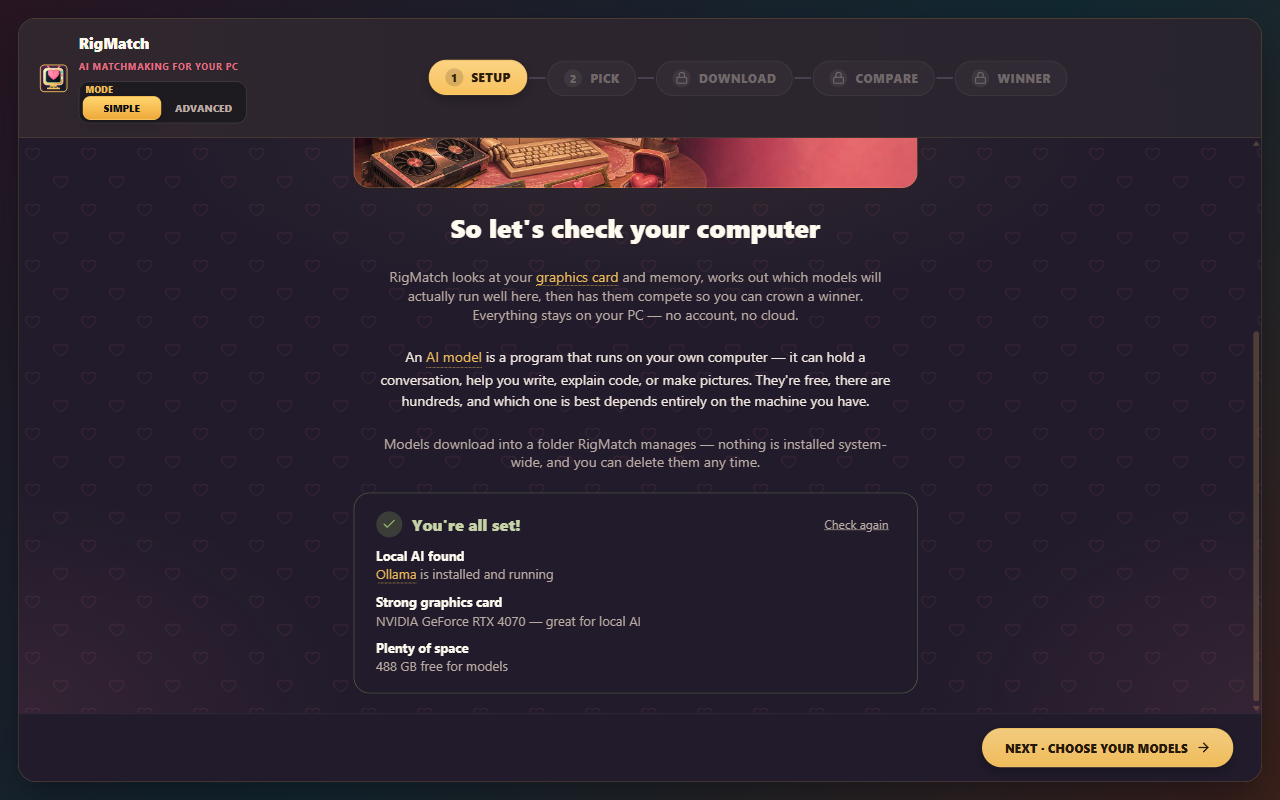
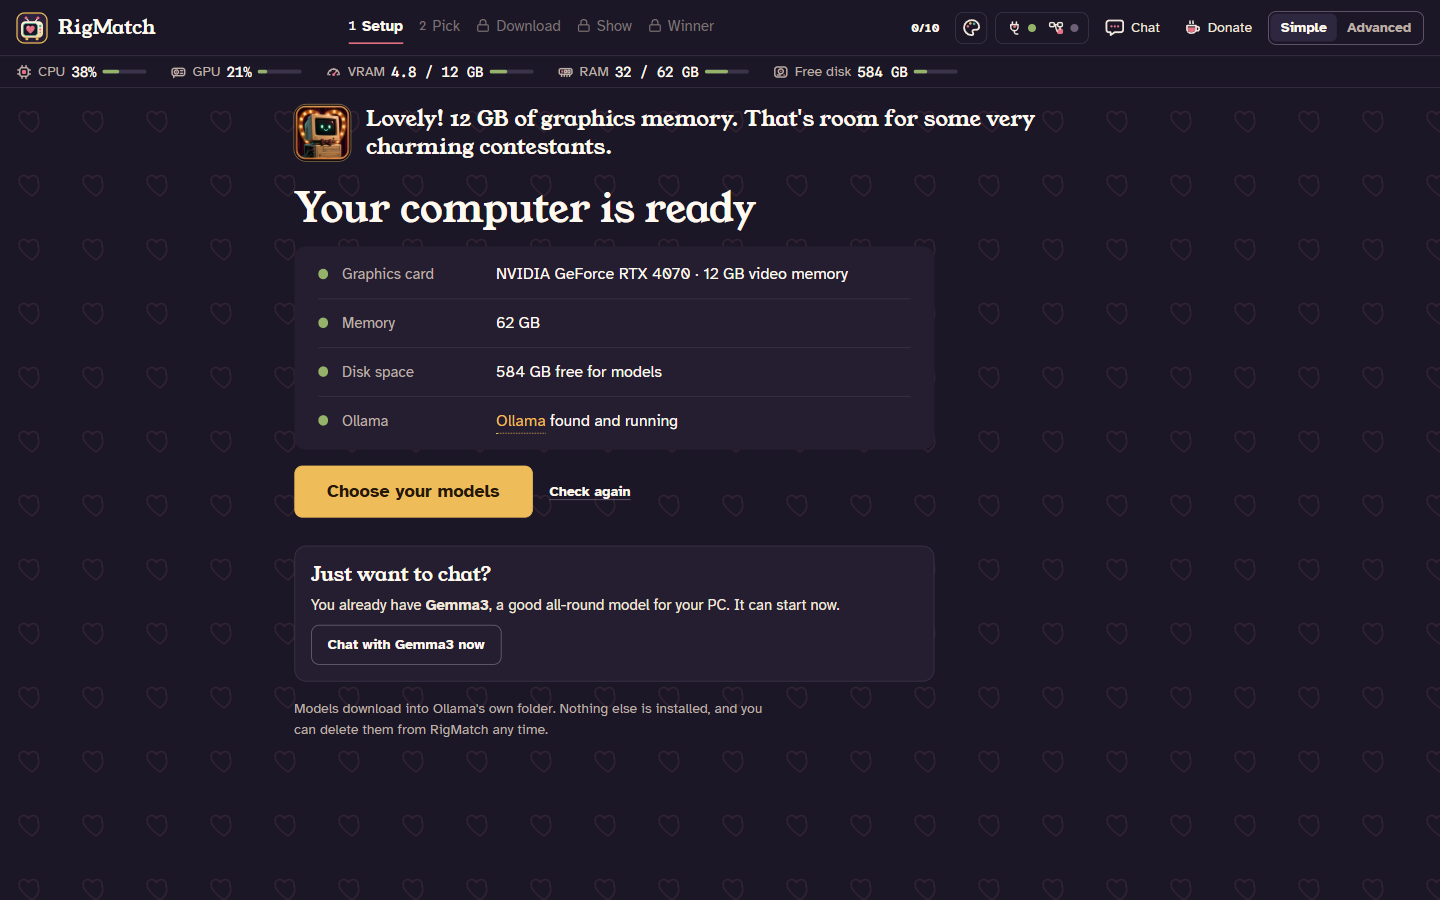
Update the README and screenshots for 0.9.9
Rename Simple Mode's fourth step to Show, add the "Just want to chat?"
door, RigMatch Chat, LM Studio, the ComfyUI makers (ports 8188 and
8000), Advanced Mode's tabs, a Windows SmartScreen first-launch note,
and the opt-in OpenRouter judge and Ollama cloud models in Privacy.
Fix "Rigmatch" spellings.

Retake 01-setup, 02-pick, 04-compare, 05-winner and advanced-models
from the installed app with a real three-model show. 03-download is
unchanged: the Download step only opens behind a download button.

diff --git a/README.md b/README.md
@@ -1,5 +1,5 @@
 <p align="center">
-  <img src="docs/images/hero-banner.png" alt="Rigmatch — the dating game show that finds the best local AI model your computer can actually run" width="100%">
+  <img src="docs/images/hero-banner.png" alt="RigMatch — the dating game show that finds the best local AI model your computer can actually run" width="100%">
 </p>
 
 <h1 align="center">RigMatch</h1>
@@ -13,8 +13,8 @@
   <img alt="Electron" src="https://img.shields.io/badge/Electron-2B2E3A?logo=electron&logoColor=9FEAF9">
   <img alt="React" src="https://img.shields.io/badge/React-20232A?logo=react&logoColor=61DAFB">
   <img alt="TypeScript" src="https://img.shields.io/badge/TypeScript-3178C6?logo=typescript&logoColor=white">
-  <img alt="Ollama" src="https://img.shields.io/badge/Powered%20by-Ollama-efbc5a">
-  <img alt="100% local" src="https://img.shields.io/badge/privacy-100%25%20local-95b46a">
+  <img alt="Works with Ollama and LM Studio" src="https://img.shields.io/badge/works%20with-Ollama%20%7C%20LM%20Studio-efbc5a">
+  <img alt="Local by default" src="https://img.shields.io/badge/privacy-local%20by%20default-95b46a">
   <img alt="Platform" src="https://img.shields.io/badge/platform-Windows%20%7C%20macOS%20%7C%20Linux-e37185">
 </p>
 
@@ -22,15 +22,17 @@
 
 ## What is RigMatch?
 
-Picking a local LLM is confusing: parameter counts, quantization, VRAM, context windows… RigMatch skips all of that. It **benchmarks models on your actual hardware** through [Ollama](https://ollama.com), scores each one on **speed, answer quality, and hardware fit**, and crowns a **Top Match** with a 0–100 Match Score.
+Picking a local LLM is confusing: parameter counts, quantization, VRAM, context windows… RigMatch skips all of that. It **benchmarks models on your actual hardware** through [Ollama](https://ollama.com) or [LM Studio](https://lmstudio.ai), scores each one on **speed, answer quality, and hardware fit**, and crowns a **Top Match** with a 0–100 Match Score.
 
-Everything runs on your machine. No account, no telemetry, and no cloud unless you choose a cloud judge.
+Everything runs on your machine. No account, no telemetry, and no cloud unless you turn on the OpenRouter judge (see [Privacy](#privacy)).
 
 **RigMatch is donationware.** Every feature is free, and nothing is locked if you don't donate. If it helps you, you can [buy me a coffee](https://buymeacoffee.com/daveeuson).
 
 - 🖥 **Reads your real rig**. GPU, VRAM, RAM and disk decide which contestants even qualify
 - 💛 **Speed Dating benchmarks**. Every model answers the same questions, live on stage
 - 🏆 **Match Score (0–100)** — speed, quality and fit, scored on your PC
+- 💬 **Chat with the winner** in RigMatch Chat, or skip the show and start chatting
+- 🖼 **Pictures, video and sound** through ComfyUI, if you have it
 - 🎨 **5 color themes** and illustrated contestant avatars for every model family
 
 ## Simple Mode — local AI for everyone
@@ -39,45 +41,65 @@ A five-step guided wizard for people who have never heard of VRAM and just want 
 
 ### 1 · Setup — check your computer
 
-One click detects Ollama and reads your hardware. No jargon, just "you're all set."
+RigMatch finds Ollama or LM Studio and reads your graphics card, memory and free disk space. No jargon, just "Your computer is ready."
 
-<p align="center"><img src="docs/images/01-setup.png" alt="Setup step — the full RigMatch window with the five-step rail" width="100%"></p>
+<p align="center"><img src="docs/images/01-setup.png" alt="Setup step — the full RigMatch window, with the hardware strip under the top bar and the Just want to chat? card" width="100%"></p>
 
-<!-- Screenshots 2–5 are cropped to each step's stage: the header rail and
-     footer repeat identically on every step, and a walkthrough that re-shows
-     them makes the reader hunt for what changed (first outside review). -->
+**Just want to chat?** The card under **Choose your models** skips the show. It offers a good all-round model for your PC: if you already have it, the chat opens straight away; if not, it tells you how big the download is and asks before getting it. Pick has the same way out, a **Skip the show** link.
+
+<!-- Screenshots 2–5 are cropped below the top bar: it repeats on every
+     step, and a walkthrough that re-shows it makes the reader hunt for what
+     changed (first outside review). -->
 
 ### 2 · Pick — meet the contestants
 
-Tell the host who your dream model is (someone to talk with, a coding buddy, an image maker) and pick up to five contestants that fit your PC. One card per model; RigMatch picks the right size for your hardware.
+Choose what you want a model for (Chat, Writing, Code, Reads pictures, Listens, Makes pictures, Makes video, Makes sound) and pick up to five contestants that fit your PC. Each card says whether the model is already on your PC or how big its download is. One card per model; RigMatch picks the right size for your hardware. **Not sure? Choose for me** picks a lineup for you.
 
-<p align="center"><img src="docs/images/02-pick.png" alt="Pick step — contestant cards with dream-model filters" width="100%"></p>
+<p align="center"><img src="docs/images/02-pick.png" alt="Pick step — contestant cards under the goal filters, with a lineup of three in the footer" width="100%"></p>
 
 ### 3 · Download — the contestants arrive
 
-Live progress while your lineup installs. Stop anytime; downloads resume if you close the app.
+RigMatch asks before it downloads anything, then shows live progress while your lineup installs. Stop anytime; downloads resume if you close the app. If every model in your lineup is already on your PC, this step is skipped.
 
 <p align="center"><img src="docs/images/03-download.png" alt="Download step — lineup install progress" width="100%"></p>
 
-### 4 · Compare — Speed Dating, live on stage
+### 4 · Show — Speed Dating, live on stage
 
-Every contestant answers the same questions on the game-show stage. No favorites, live scores.
+One sheet before the start says which questions run, who marks them and how hard your computer will work. Then every contestant answers the same questions on the game-show stage, one at a time, with live scores. Stop ends the whole show.
 
-<p align="center"><img src="docs/images/04-compare.png" alt="Compare step — the Speed Dating stage" width="100%"></p>
+<p align="center"><img src="docs/images/04-compare.png" alt="Show step — the Speed Dating stage" width="100%"></p>
 
 ### 5 · Winner — your Top Match
 
-The reveal: your Top Match under the lights with its grade and Match Score, then how the whole lineup finished. Below that, two doors out: start chatting right away, or graduate to Advanced Mode.
+The reveal: your Top Match under the lights with its grade, Match Score and the four measurements behind it. **Rank by** moves the crown between Accuracy first, Balanced and Speed first. Then two doors out (start chatting right away, or open the control room, which is Advanced Mode) and how the whole lineup finished.
 
 <p align="center"><img src="docs/images/05-winner.png" alt="Winner step — Top Match reveal" width="100%"></p>
 
+## Chatting with your models
+
+**RigMatch Chat** is the chat window that comes with RigMatch. Open it from **Chat** in the top bar, from the Winner screen, or from the Just want to chat? card. It lists your Ollama models with their Match Scores, and it remembers only what you ask it to keep, in a "What it remembers" panel you can read and add to. LM Studio models chat in a panel inside RigMatch instead, because RigMatch Chat lists only Ollama's models.
+
+## Pictures, video and sound
+
+**Makes pictures**, **Makes video** and **Makes sound** run in [ComfyUI](https://www.comfy.org/download), a separate free program that RigMatch doesn't install or bundle. RigMatch looks for it by itself on port 8188 (the portable and manual installs) and 8000 (ComfyUI Desktop); if yours runs somewhere else, set its address in Settings. Pick shows the makers that fit your graphics card, and Simple Mode can download picture makers such as Z-Image Turbo and FLUX.2 [klein], after telling you how much each one fetches. Without ComfyUI, Simple Mode explains how to get it.
+
 ## Advanced Mode
 
-The full control room: a dense sortable models table, custom test suites, diagnostics, logs and per-run history. Your Top Match carries over.
+The full control room, with its tabs in the top bar. Your Top Match carries over.
+
+- **Models**: every model RigMatch knows, with filters for what it can do and whether it fits your PC, plus downloads
+- **What's New**: models that just appeared in Ollama's catalog
+- **Comparison**: run a show with the models, questions and judge you choose, and add skill tests such as Build an app or the Code challenge
+- **Labs**: picture, video and sound makers given the same prompt, and listening tests
+- **Results**: your Top Match and its measurements, the ranking, and every test you've run, with a fader between accuracy and speed
+- **My PC**: your hardware, Setup Doctor and logs
+- **Settings** (the gear): one section at a time, picked from a list
+
+<p align="center"><img src="docs/images/advanced-models.png" alt="Advanced Mode — the Models tab" width="100%"></p>
 
 ## Getting started
 
-1. **Install [Ollama](https://ollama.com/download)** and make sure it's running
+1. **Install [Ollama](https://ollama.com/download)** and make sure it's running. Already use [LM Studio](https://lmstudio.ai)? RigMatch tests the models you have there too, while LM Studio's local server is running. Downloads go through Ollama.
 2. **Download RigMatch** for your platform:
 
 | Platform | Installer |
@@ -91,13 +113,34 @@ The full control room: a dense sortable models table, custom test suites, diagno
 3. Launch it — Simple Mode will check your computer and take it from there
 
 <details>
+<summary><strong>Windows first-launch note</strong> (unsigned builds)</summary>
+
+RigMatch's Windows builds are not code-signed, because a signing certificate costs money every year and RigMatch is free. So the first time you run the installer (or `RigMatch.exe` from the `.zip`), Windows SmartScreen may say **"Windows protected your PC"**.
+
+1. Click **More info**. It shows the file name and **Publisher: Unknown publisher**.
+2. Click **Run anyway**.
+
+To check that your download is the one GitHub built, compare its SHA-256 with the line for that file in **SHA256SUMS.txt** on the same release page (upper or lower case doesn't matter):
+
+```powershell
+Get-FileHash .\RigMatch-*-win-x64.exe -Algorithm SHA256
+```
+
+Or, with the [GitHub CLI](https://cli.github.com), check the build attestation:
+
+```bash
+gh attestation verify RigMatch-<version>-win-x64.exe --repo DaveEuson/RigMatch
+```
+</details>
+
+<details>
 <summary><strong>macOS first-launch note</strong> (unsigned beta builds)</summary>
 
-Rigmatch macOS downloads are unsigned beta builds distributed outside the App Store. On first launch, macOS may say the developer cannot be verified.
+RigMatch macOS downloads are unsigned beta builds distributed outside the App Store. On first launch, macOS may say the developer cannot be verified.
 
 1. Download the correct `.dmg`: **mac-arm64** for Apple Silicon, **mac-x64** for Intel.
-2. Open the `.dmg` and drag **Rigmatch** to **Applications**.
-3. First launch only: right-click **Rigmatch.app**, choose **Open**, then **Open** again.
+2. Open the `.dmg` and drag **RigMatch** to **Applications**.
+3. First launch only: right-click **RigMatch.app**, choose **Open**, then **Open** again.
 4. If macOS still blocks it, open **System Settings → Privacy & Security → Security** and choose **Open Anyway**.
 
 If macOS says the app is **"damaged and can't be opened"**, and nothing appears
@@ -151,8 +194,8 @@ AppImages up to 0.9.1 also need libfuse2 to open, which Ubuntu 22.04 and newer d
 ### Build from source
 
 ```bash
-git clone https://github.com/DaveEuson/Rigmatch.git
-cd Rigmatch
+git clone https://github.com/DaveEuson/RigMatch.git
+cd RigMatch
 npm install
 npm run dev        # development
 npm run build      # production build
@@ -165,14 +208,19 @@ Each model runs the same question set on your hardware. The score blends:
 | Ingredient | What it measures |
 |---|---|
 | ⚡ Speed | Tokens/sec and first-token latency on your rig |
-| 🎯 Quality | Whether answers hold up: valid JSON, followed instructions, no invented facts. Pattern checks by default; a second model grades the open-ended answers if you point RigMatch at one |
+| 🎯 Quality | Whether answers hold up: valid JSON, followed instructions, no invented facts. Fixed rules mark most answers. A judge model marks the open-ended ones: one of your local models, picked for you unless you choose, or an OpenRouter model if you turn that on. A quick check uses rules only |
 | 🧩 Fit | How comfortably the model sits in your VRAM/RAM |
 
 The result is a 0–100 Match Score and a letter grade, measured on your machine rather than a leaderboard's H100. Speed and fit are measured directly. Quality is the softest of the three, which is why the app shows the breakdown rather than only the total.
 
 ## Privacy
 
-RigMatch is 100% local. Models run through Ollama on your hardware; nothing you type, test, or score ever leaves your computer.
+Models run on your hardware through Ollama or LM Studio. RigMatch has no account and no telemetry, and nothing you type, test or score leaves your computer unless you switch one of these on:
+
+- **The OpenRouter judge.** If you choose it and add your own OpenRouter key, the questions it marks and your models' answers to them go to OpenRouter, and so do the apps and code it reviews in Labs.
+- **A cloud model.** Ollama's cloud models run on Ollama's servers, so a test of one sends its questions there.
+
+The sheet before every test says what leaves your computer, if anything.
 
 ## License
 
